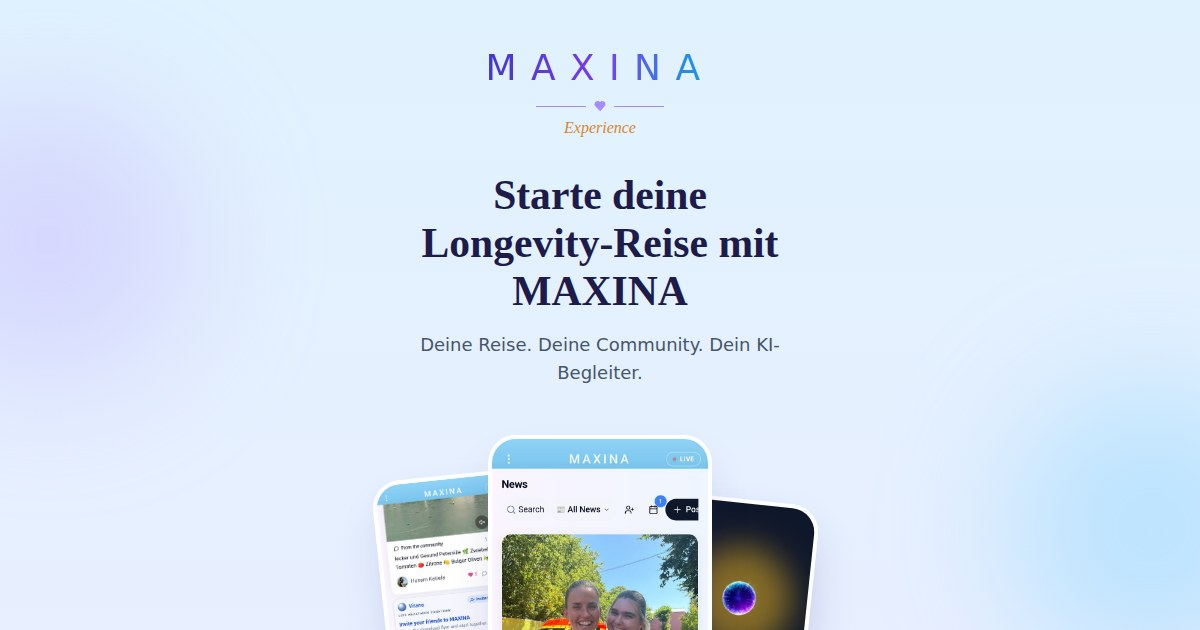
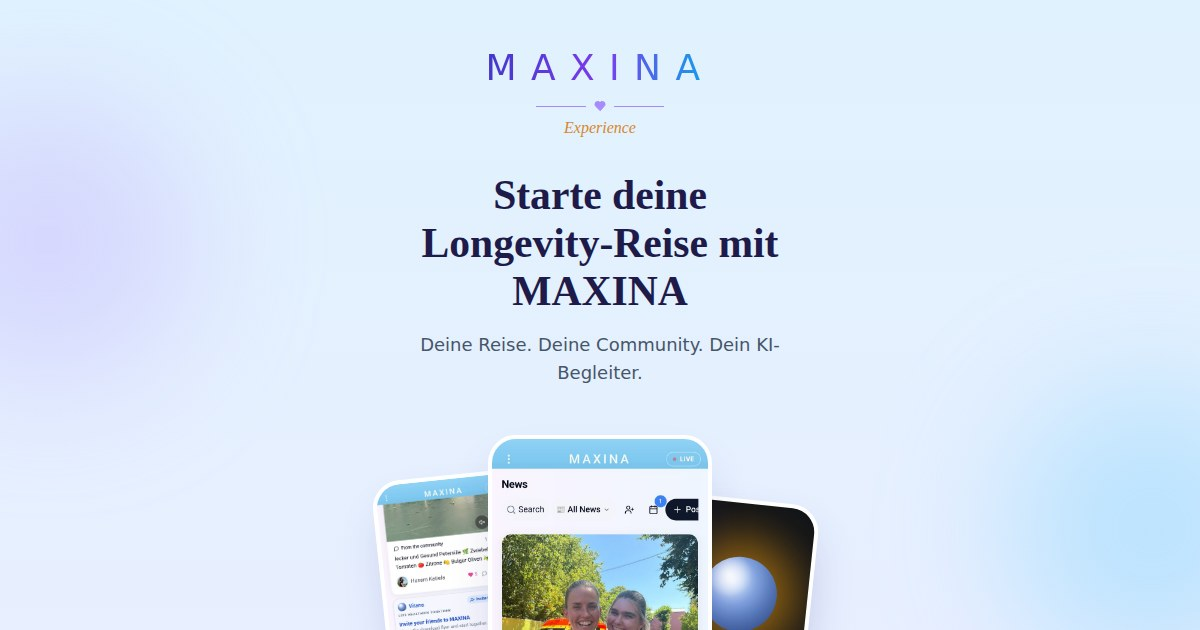
fix(flyer): faithful Vitana orb card using vitana-orb-clean.svg
The collage orb card used the purple galaxy avatar PNG, which looks
nothing like the real "Vitana spricht..." screen. Rebuild it with the
steel-blue orb asset, amber glow, caption from screens.common.vitanaSpeaking,
and mic/close controls, matching the in-app ORB screen.

Claude-Session: https://claude.ai/code/session_01PiKt8GCXow9kg5omgYqVnW

Changed region(s): [[0.5858, 0.8143, 0.6783, 1.0]]

diff --git a/src/pages/DownloadFlyer.tsx b/src/pages/DownloadFlyer.tsx
@@ -19,7 +19,7 @@
 
 import { useEffect, useReducer } from 'react';
 import { useSearchParams } from 'react-router-dom';
-import { Compass, HeartPulse, Leaf, Users, Heart } from 'lucide-react';
+import { Compass, HeartPulse, Leaf, Users, Heart, Mic, X } from 'lucide-react';
 import SEO from '@/components/SEO';
 import { ensureCatalog, onCatalogLoaded } from '@/i18n';
 import { setI18nLocale, t } from '@/lib/i18n-toast';
@@ -125,22 +125,28 @@ export default function DownloadFlyer() {
           <div className="absolute -left-4 top-10 w-36 -rotate-6">
             <PhoneShot src="/images/flyer/phone-home.jpg" />
           </div>
-          {/* Vitana orb card */}
-          <div className="absolute -right-2 top-16 flex h-64 w-36 rotate-6 flex-col items-center justify-center gap-3 overflow-hidden rounded-[1.75rem] border-4 border-white bg-slate-900 shadow-2xl shadow-indigo-900/30 dark:border-slate-700">
+          {/* Vitana orb card — replica of the real "Vitana speaking" screen:
+              steel-blue orb (vitana-orb-clean.svg) with amber glow on a
+              near-black screen, caption + mic/close controls. */}
+          <div className="absolute -right-2 top-16 flex h-64 w-36 rotate-6 flex-col items-center justify-center gap-2.5 overflow-hidden rounded-[1.75rem] border-4 border-white bg-[#101318] shadow-2xl shadow-indigo-900/30 dark:border-slate-700">
             <div className="relative">
-              <div aria-hidden="true" className="absolute inset-0 -m-3 rounded-full bg-amber-400/50 blur-lg" />
+              <div aria-hidden="true" className="absolute inset-0 -m-4 rounded-full bg-amber-500/60 blur-xl" />
               <img
-                src="/vitana-orb-avatar.png"
+                src="/vitana-orb-clean.svg"
                 alt={t('screens.vitanaIdentity.orbAlt')}
-                className="relative h-20 w-20 rounded-full"
+                className="relative h-20 w-20"
               />
             </div>
-            <p className="text-[10px] font-medium tracking-wide text-amber-300">
-              {t('screens.vitanaIdentity.vitana')}
+            <p className="text-[9px] font-medium text-amber-400/90">
+              {t('screens.common.vitanaSpeaking')}
             </p>
-            <div aria-hidden="true" className="flex gap-2">
-              <span className="h-5 w-5 rounded-full bg-slate-700" />
-              <span className="h-5 w-5 rounded-full bg-slate-700" />
+            <div aria-hidden="true" className="mt-1 flex gap-2.5">
+              <span className="flex h-7 w-7 items-center justify-center rounded-full bg-[#1e3a5f]">
+                <Mic className="h-3.5 w-3.5 text-sky-300" />
+              </span>
+              <span className="flex h-7 w-7 items-center justify-center rounded-full bg-[#2a2f36]">
+                <X className="h-3.5 w-3.5 text-slate-300" />
+              </span>
             </div>
           </div>
           <PhoneShot src="/images/flyer/phone-news.jpg" className="relative z-10 mx-auto w-56" />
